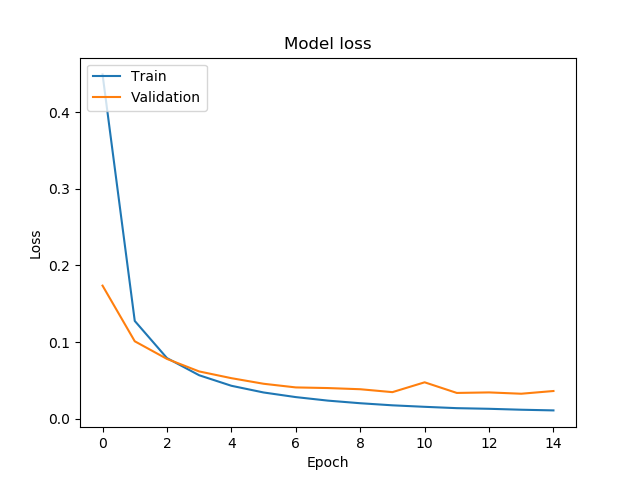
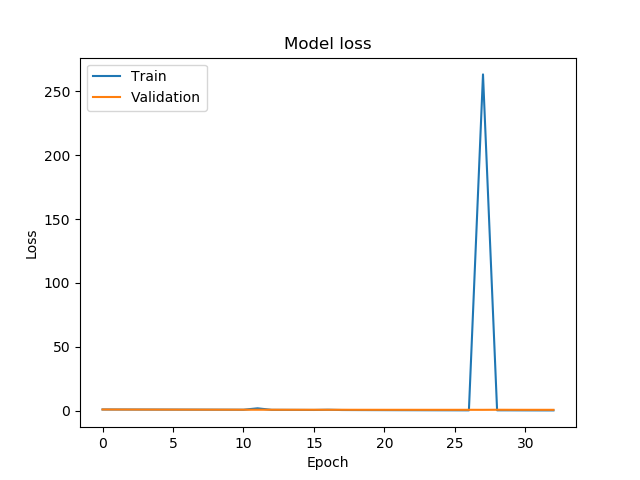
update: bi-lstm experiment

diff --git a/Code/preprocess_data.py b/Code/preprocess_data.py
@@ -1,0 +1,42 @@
+import sys
+import os
+import pandas as pd
+from tqdm import tqdm
+import yaml
+
+sys.path.append(os.path.abspath('.'))
+from Code.config import Config
+from Code.preprocessing import process_text
+
+with open(Config.PARAMS_PATH) as f:
+    params = yaml.load(f.read())['prepare']
+
+
+def prepare_data():
+    raw_data = pd.read_csv(Config.RAW_DATA_PATH, index_col=False)
+    # songID,SongTitle,Singer,Lyrics,Label,SongDialect,loudness
+    data = raw_data[raw_data['Label'].apply(lambda x: x in {'Happy', 'Sad'})].reset_index(drop=True)
+    data = data[data['Lyrics'].apply(lambda x: x and len(str(x)) > 0)].reset_index(drop=True)
+    processed_lyrics = []
+    with tqdm(total=len(data)) as p_bar:
+        for lyrics in list(data['Lyrics']):
+            processed_lyrics.append(
+                process_text(str(lyrics),
+                             remove_stopwords=bool(params['remove_stopwords']),
+                             remove_shadda=bool(params['remove_shadda']),
+                             remove_tashkeel=bool(params['remove_tashkeel']),
+                             remove_tatweel=bool(params['remove_tatweel']),
+                             remove_punc=bool(params['remove_punc']),
+                             remove_repeats=bool(params['remove_repeats']),
+                             normalize=bool(params['normalize']),
+                             remove_nonarabic=bool(params['remove_nonarabic']),
+                             stemming=bool(params['stemming']))
+            )
+            p_bar.update(1)
+
+    data['Lyrics'] = processed_lyrics
+    data = data[data['Lyrics'].apply(lambda x: len(x.split()) > 1)].reset_index(drop=True)
+    data.to_csv(Config.PROCESSED_DATA_PATH, index=False)
+
+
+prepare_data()

diff --git a/Code/train.py b/Code/train.py
@@ -57,12 +57,12 @@ def plot_training_history(_history):
 data = prepare_data()
 data = data.sample(frac=1).reset_index(drop=True)
 
-print(f'class_count:\n{data["Class"].value_counts()}')
+print(f'class_count:\n{data["Label"].value_counts()}')
 
-data['Class'] = data['Class'].replace({'happiness': 1.0, 'sadness': 0.0})
+data['Label'] = data['Label'].replace({'Happy': 1.0, 'Sad': 0.0})
 
-x = np.array(list(data['Tweet'])).astype(str)
-y = np.array(list(data['Class']))
+x = np.array(list(data['Lyrics'])).astype(str)
+y = np.array(list(data['Label']))
 
 max_len = max([len(item) for item in x])
 

diff --git a/Code/config.py b/Code/config.py
@@ -3,9 +3,9 @@ import os
 
 class Config:
     RAW_DATA_DIR = os.path.join('data', 'raw')
-    RAW_DATA_PATH = os.path.join('data', 'raw', 'tweets.csv')
+    RAW_DATA_PATH = os.path.join('data', 'raw', 'habibi.csv')
     PROCESSED_DATA_DIR = os.path.join('data', 'processed')
-    PROCESSED_DATA_PATH = os.path.join(PROCESSED_DATA_DIR, 'tweets.csv')
+    PROCESSED_DATA_PATH = os.path.join(PROCESSED_DATA_DIR, 'habibi.csv')
     EVAL_DATA_DIR = os.path.join('data', 'eval')
     EVAL_DATA_PATH = os.path.join(EVAL_DATA_DIR, 'eval.json')
 
